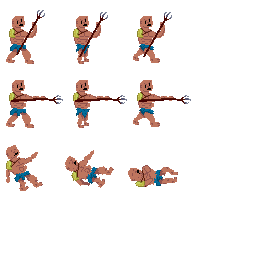
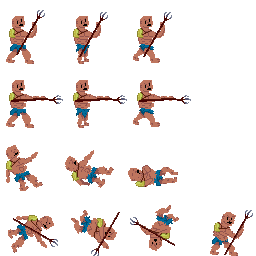
Added archer

diff --git a/LD45-Compo-core/src/finalforeach/ld45/Game.java b/LD45-Compo-core/src/finalforeach/ld45/Game.java
@@ -24,6 +24,7 @@ public class Game extends ApplicationAdapter {
 	public static Array<Particle> particles;
 	public static Array<Fighter> fighters;
 	public static Array<AIController> ais;
+	public static Array<Item> items;
 	public static Player player;
 	HealthBar healthBar;
 	Level currentLevel;
@@ -38,6 +39,7 @@ public class Game extends ApplicationAdapter {
 		fighters = new Array<Fighter>();
 		particles = new Array<Particle>();
 		ais = new Array<AIController>();
+		items =new Array<Item>();
 		
 		healthBar = new HealthBar();
 		Fighter playerFighter = new Gladiator("Player",30, 30);
@@ -80,6 +82,13 @@ public class Game extends ApplicationAdapter {
 			f.y=MathUtils.clamp(f.y, 0, 100);
 			f.x=MathUtils.clamp(f.x, 64, 2048-64);
 		}
+		Array<Item> deadItems = new Array<Item>();
+		for(Item item : items)
+		{
+			item.update(deltaTime);
+			if(item.pickedUp)deadItems.add(item);
+		}
+		items.removeAll(deadItems, false);
 		Array<Particle> deadParticles = new Array<Particle>();
 		for(Particle p : particles)
 		{
@@ -124,7 +133,10 @@ public class Game extends ApplicationAdapter {
 		{
 			f.draw(batch);
 		}
-
+		for(Item item : items)
+		{
+			item.draw(batch);
+		}
 		for(Particle p : particles)
 		{
 			p.draw(batch);

diff --git a/LD45-Compo-core/src/finalforeach/ld45/Item.java b/LD45-Compo-core/src/finalforeach/ld45/Item.java
@@ -1,0 +1,56 @@
+package finalforeach.ld45;
+
+import com.badlogic.gdx.graphics.Texture;
+import com.badlogic.gdx.graphics.g2d.SpriteBatch;
+import com.badlogic.gdx.graphics.g2d.TextureRegion;
+import com.badlogic.gdx.math.Rectangle;
+
+public abstract class Item {
+	public static TextureRegion[][] texReg;
+	{
+		texReg = TextureRegion.split(new Texture("items.png"), 64, 64);
+	}
+	float x, y;
+	float groundY;
+	int i,j;
+	Rectangle bounds;
+	boolean pickedUp;
+	float fallSpeed;
+	public Item(float x, float y, int i,int j)
+	{
+		this.x=x;
+		this.groundY=y;
+		this.y=groundY;
+		bounds = new Rectangle(x,y,64,64);
+		this.i=i;
+		this.j=j;
+		fallSpeed=-150;
+	}
+	
+	public void update(float deltaTime)
+	{
+		y-=deltaTime*fallSpeed;
+		//y=groundY;fallSpeed=-150;
+		fallSpeed+=250*deltaTime;
+		if(y<groundY)
+		{
+			y=groundY;
+			fallSpeed=-fallSpeed/8;
+		}
+		bounds.set(x,y,64,64);
+		if(Game.player.fighter.rect.overlaps(bounds))
+		{
+			if(onPickup())
+			{
+				pickedUp=true;
+			}
+		}
+	}
+	/**Event occurs when item is picked up. Returns whether the item can be destroyed.*/
+	protected abstract boolean onPickup();
+
+	public void draw(SpriteBatch batch)
+	{
+		batch.draw(texReg[i][j],x,y);
+	}
+}

diff --git a/LD45-Compo-core/src/finalforeach/ld45/GladiatorArcher.java b/LD45-Compo-core/src/finalforeach/ld45/GladiatorArcher.java
@@ -1,0 +1,41 @@
+package finalforeach.ld45;
+
+import com.badlogic.gdx.graphics.Texture;
+import com.badlogic.gdx.graphics.g2d.SpriteBatch;
+import com.badlogic.gdx.graphics.g2d.TextureRegion;
+import com.badlogic.gdx.math.MathUtils;
+
+public class GladiatorArcher extends Gladiator {
+	public static TextureRegion[][] archerTexReg;
+	{
+		archerTexReg = TextureRegion.split(new Texture("gladiator-archer.png"), 64, 64);
+	}
+	public GladiatorArcher(String team,float x, float y) {
+		super(team,x, y);
+	}
+	@Override
+	protected void drawWarrior(SpriteBatch batch) {
+		batch.draw(archerTexReg[i][j],x-47,y,64-47,0,64,64,lookingLeft?-1:1,1,0);
+	}
+
+	@Override
+	public void onAttack()
+	{
+		if(canAttack())
+		{
+			atkTimer=0;
+			swishSounds[MathUtils.random(0, swishSounds.length-1)].play();
+			float velX = lookingLeft? -350:350;
+			Game.particles.add(new ArrowParticle(team,x+(lookingLeft?-56:0), y+24, velX, 0,this));
+		}
+	}
+	@Override
+	public void onDeath()
+	{
+		Game.items.add(new ItemBow(x-64, y));
+	}
+	public float getAttackCooldown()
+	{
+		return 1f;
+	}
+}

diff --git a/LD45-Compo-core/src/finalforeach/ld45/Gladiator.java b/LD45-Compo-core/src/finalforeach/ld45/Gladiator.java
@@ -69,7 +69,7 @@ public class Gladiator extends Fighter
 				if(atkTimer>0.2)
 				{
 					i=0;
-					if(atkTimer>0.3)
+					if(atkTimer>getAttackCooldown())
 					{
 						atkTimer=-1;
 					}
@@ -77,6 +77,8 @@ public class Gladiator extends Fighter
 			}
 			if(rollTimer>-1)
 			{
+				float velX = lookingLeft? -100:100;
+				x+=velX*deltaTime;
 				rollTimer+=deltaTime*3;
 				i=3;
 				j=(int)(rollTimer*4);
@@ -108,10 +110,14 @@ public class Gladiator extends Fighter
 	{
 		batch.draw(texReg[i][j],x-32,y,32,0,64,64,lookingLeft?-1:1,1,0);
 	}
+	public boolean canAttack()
+	{
+		return (atkTimer==-1 && rollTimer==-1);
+	}
 	@Override
 	public void onAttack()
 	{
-		if(atkTimer==-1 && rollTimer==-1)
+		if(canAttack())
 		{
 			atkTimer=0;
 			swishSounds[MathUtils.random(0, swishSounds.length-1)].play();
@@ -125,5 +131,8 @@ public class Gladiator extends Fighter
 		rollTimer=0;
 	}
 
-
+	public float getAttackCooldown()
+	{
+		return 0.3f;
+	}
 }

diff --git a/LD45-Compo-core/src/finalforeach/ld45/ArrowParticle.java b/LD45-Compo-core/src/finalforeach/ld45/ArrowParticle.java
@@ -1,0 +1,29 @@
+package finalforeach.ld45;
+
+public class ArrowParticle extends Particle {
+
+	Fighter owner;
+	String team;
+	public ArrowParticle(String team, float x, float y, float vx, float vy, Fighter owner) {
+		super(x, y, vx, vy, 0, 2);
+		this.owner=owner;
+		this.team=team;
+	}
+
+	@Override
+	public float getMaxLifetime() {
+		return 1f;
+	}
+
+	@Override
+	public void update(float deltaTime) {
+		super.update(deltaTime);
+		for(Fighter f : Game.fighters)
+		{
+			if(f!=owner && f.team!=team &&f.rect.overlaps(bounds))
+			{
+				f.hit(3);
+			}
+		}
+	}
+}

diff --git a/LD45-Compo-core/src/finalforeach/ld45/Level.java b/LD45-Compo-core/src/finalforeach/ld45/Level.java
@@ -15,6 +15,10 @@ class Level1 extends Level
 	public void spawnWarriors() 
 	{
 		//addWarrior(new MeleeAI(new Gladiator("Enemy",1024,50)));
-		addWarrior(new MeleeAI(new GladiatorTrident("Enemy",1024,20)));
+		//addWarrior(new MeleeAI(new GladiatorTrident("Enemy",256,20)));
+		//addWarrior(new MeleeAI(new GladiatorArcher("Enemy",1024,20)));
+		addWarrior(new MeleeAI(new Gladiator("Enemy",256,50)));
+		addWarrior(new MeleeAI(new Gladiator("Enemy",1000,50)));
+		addWarrior(new MeleeAI(new Gladiator("Enemy",2000,50)));
 	}
 }

diff --git a/LD45-Compo-core/src/finalforeach/ld45/GladiatorTrident.java b/LD45-Compo-core/src/finalforeach/ld45/GladiatorTrident.java
@@ -22,12 +22,17 @@ public class GladiatorTrident extends Gladiator
 	@Override
 	public void onAttack()
 	{
-		if(atkTimer==-1)
+		if(canAttack())
 		{
 			atkTimer=0;
 			swishSounds[MathUtils.random(0, swishSounds.length-1)].play();
 			float velX = lookingLeft? -150:150;
 			Game.particles.add(new TridentParticle(team,x+(lookingLeft?-56:0), y+24, velX, 0,this));
 		}
+	}
+	@Override
+	public void onDeath()
+	{
+		Game.items.add(new ItemTrident(x-64, y));
 	}
 }

diff --git a/LD45-Compo-core/src/finalforeach/ld45/ItemTrident.java b/LD45-Compo-core/src/finalforeach/ld45/ItemTrident.java
@@ -1,0 +1,17 @@
+package finalforeach.ld45;
+
+public class ItemTrident extends Item {
+
+	public ItemTrident(float x, float y) {
+		super(x, y, 0, 0);
+	}
+
+	@Override
+	protected boolean onPickup() {
+		Game.fighters.removeValue(Game.player.fighter, true);
+		Game.player.fighter = new GladiatorTrident("Player", Game.player.fighter.x, Game.player.fighter.y);
+		Game.fighters.add(Game.player.fighter);
+		return true;
+	}
+
+}

diff --git a/LD45-Compo-core/src/finalforeach/ld45/ItemBow.java b/LD45-Compo-core/src/finalforeach/ld45/ItemBow.java
@@ -1,0 +1,16 @@
+package finalforeach.ld45;
+
+public class ItemBow extends Item {
+	
+	public ItemBow(float x, float y) {
+		super(x, y, 0, 1);
+	}
+	@Override
+	protected boolean onPickup() {
+		Game.fighters.removeValue(Game.player.fighter, true);
+		Game.player.fighter = new GladiatorArcher("Player", Game.player.fighter.x, Game.player.fighter.y);
+		Game.fighters.add(Game.player.fighter);
+		return true;
+	}
+
+}

diff --git a/LD45-Compo-core/src/finalforeach/ld45/Fighter.java b/LD45-Compo-core/src/finalforeach/ld45/Fighter.java
@@ -25,7 +25,12 @@ public abstract class Fighter
 	}
 	protected void onHit(float dmg)
 	{
+		boolean isDead =isDead();
 		hp-=dmg;
+		if(!isDead&&hp<=0)//Whether fighter just died.
+		{
+			onDeath();
+		}
 	}
 	
 	public abstract float getMaxHP();
@@ -95,5 +100,7 @@ public abstract class Fighter
 	public boolean isDead()
 	{
 		return hp<=0;
+	}
+	public void onDeath() {
 	}
 }

diff --git a/LD45-Compo-core/src/finalforeach/ld45/Player.java b/LD45-Compo-core/src/finalforeach/ld45/Player.java
@@ -6,7 +6,7 @@ import com.badlogic.gdx.Input.Keys;
 import com.badlogic.gdx.math.Vector3;
 
 public class Player {
-	final Fighter fighter;
+	Fighter fighter;
 	private final Vector3 screenCoords = new Vector3(0,0,0);
 	public Player(Fighter fighter)
 	{
